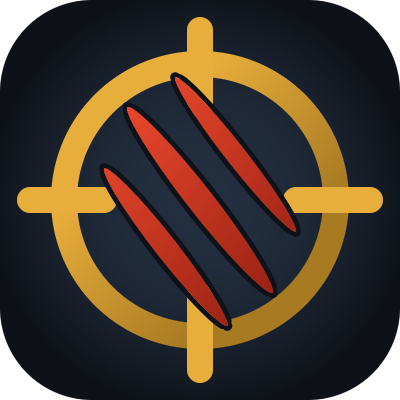
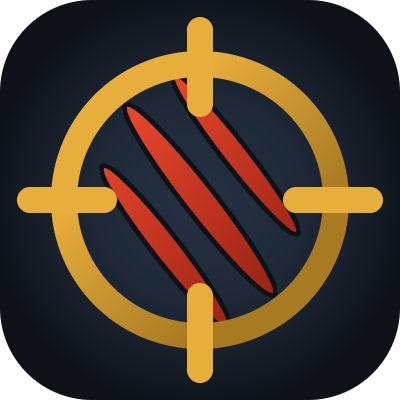
Draw the claw slashes behind the reticle
The slashes were drawn last and so cut across the ring and the top tick,
breaking up the one shape that carries the meaning. Reticle over claws keeps
it unbroken, which tells most at 64px where the ring is nearly all you can
make out.

The dark outline around each slash stays: with the slashes behind, it is what
keeps them off the dark plate rather than off the gold.

Also drops a no-op helper left over from an earlier pass.

diff --git a/tools/make-icon.py b/tools/make-icon.py
@@ -123,8 +123,27 @@ def render(size):
             r, g, b = mix(BG_INNER, BG_OUTER, t * t)
             alpha = a_bg
 
-            def over(col, cov, r=None, g=None, b=None):
-                return cov
+            # claw slashes, drawn first so the reticle sits over them
+            for (ax, ay, bx, by, width) in claws:
+                d = sd_blade(cx, cy, ax, ay, bx, by, width)
+                a_c = clamp(0.5 - d)
+                # A dark outline around every slash, drawn whether or not the
+                # slash covers this pixel. With the slashes behind the reticle
+                # this is what keeps them from melting into the dark plate.
+                lip = clamp(0.5 - (d - 5.0 * s))
+                if lip > a_c:
+                    k = lip - a_c
+                    r = lerp(r, 0x0E, k)
+                    g = lerp(g, 0x12, k)
+                    b = lerp(b, 0x18, k)
+                    alpha = alpha + (1 - alpha) * k
+                if a_c > 0:
+                    shade = clamp(0.5 + (cx + cy) / (300 * s))
+                    col = mix(CLAW, CLAW_DIM, shade)
+                    r = lerp(r, col[0], a_c)
+                    g = lerp(g, col[1], a_c)
+                    b = lerp(b, col[2], a_c)
+                    alpha = alpha + (1 - alpha) * a_c
 
             # reticle ring, lit from the top left
             d_ring = sd_ring(cx, cy, ring_r, ring_t)
@@ -146,28 +165,6 @@ def render(size):
                     g = lerp(g, GOLD[1], a_t)
                     b = lerp(b, GOLD[2], a_t)
                     alpha = alpha + (1 - alpha) * a_t
-
-            # claw slashes, drawn last so they sit over the reticle
-            for (ax, ay, bx, by, width) in claws:
-                d = sd_blade(cx, cy, ax, ay, bx, by, width)
-                a_c = clamp(0.5 - d)
-                # A dark outline around every slash, drawn whether or not the
-                # slash covers this pixel, so the red stays separated from the
-                # gold ring it crosses.
-                lip = clamp(0.5 - (d - 5.0 * s))
-                if lip > a_c:
-                    k = lip - a_c
-                    r = lerp(r, 0x0E, k)
-                    g = lerp(g, 0x12, k)
-                    b = lerp(b, 0x18, k)
-                    alpha = alpha + (1 - alpha) * k
-                if a_c > 0:
-                    shade = clamp(0.5 + (cx + cy) / (300 * s))
-                    col = mix(CLAW, CLAW_DIM, shade)
-                    r = lerp(r, col[0], a_c)
-                    g = lerp(g, col[1], a_c)
-                    b = lerp(b, col[2], a_c)
-                    alpha = alpha + (1 - alpha) * a_c
 
             px_bytes += bytes((
                 int(clamp(r, 0, 255) + 0.5),
